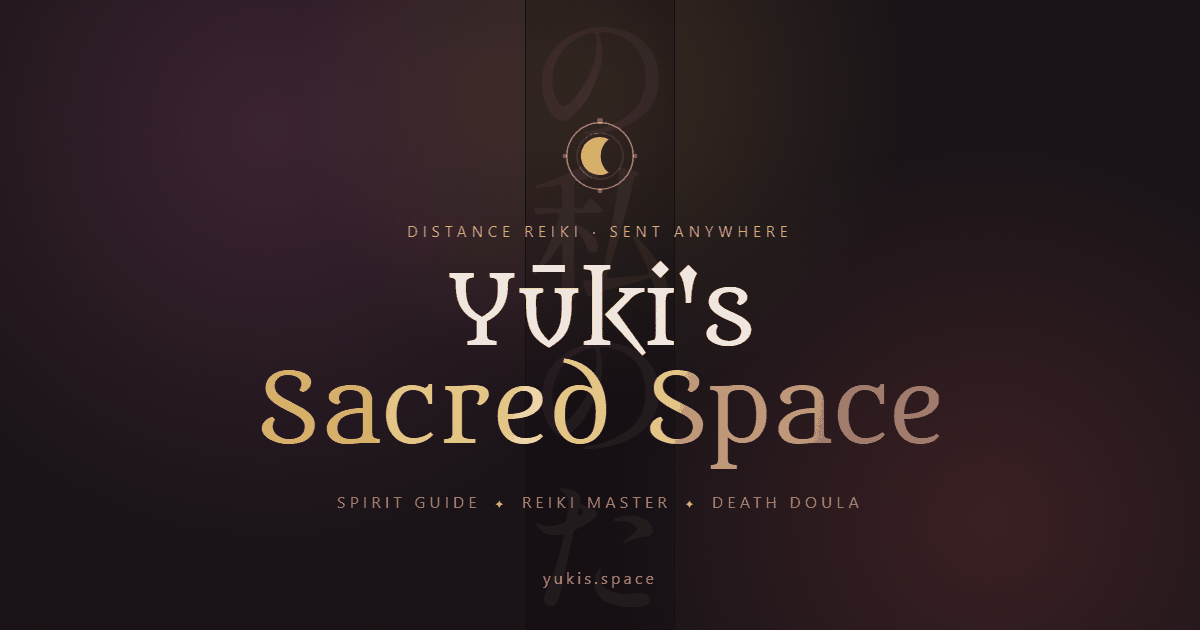
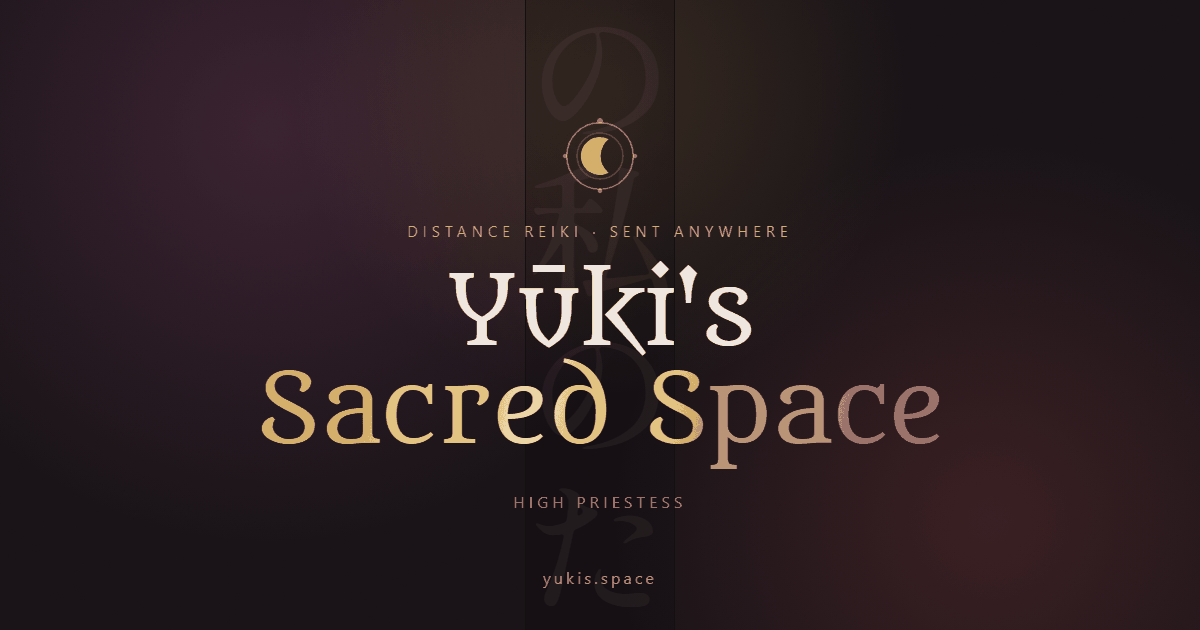
Retitle to high priestess and mark the CBT course complete
She is not pursuing death doula work, so the three-part role line becomes a
single title everywhere it appeared: hero, about page, page titles and meta
descriptions, structured data jobTitle, email header, social card, PWA
manifest and og:image alt.

The homepage "pillars" block is removed rather than trimmed. It was three
cards, one per role title, and the copy in them was mine rather than hers.
With a single title the format does not hold, and two cards in a
three-column grid reads as broken. The scroll cue now points at the
offerings section, and the .pillars styles stay in styles.css in case a
similar block is wanted later.

Also: advanced CBT practitioner moves from "ongoing" to August '26, and the
email footer's site link now derives its label from APP_BASE_URL instead of
hard-coding the old duckdns host, which had already gone stale once.

diff --git a/index.html b/index.html
@@ -3,13 +3,13 @@
 <head>
 <meta charset="utf-8">
 <meta name="viewport" content="width=device-width, initial-scale=1">
-<title>Yūki's Sacred Space — distance reiki, spirit guidance, death doula</title>
-<meta name="description" content="Distance reiki, intuitive readings, and confidential conversation with Wisteria Yūki. Spirit guide, reiki master, death doula. Sessions from 15 minutes to a full hour, sent anywhere.">
+<title>Yūki's Sacred Space — distance reiki, sent anywhere</title>
+<meta name="description" content="Distance reiki, intuitive readings, and confidential conversation with Wisteria Yūki. High priestess. Sessions from 15 minutes to a full hour, sent anywhere.">
 <meta name="theme-color" content="#191317">
 
 <meta property="og:type" content="website">
 <meta property="og:title" content="Yūki's Sacred Space">
-<meta property="og:description" content="Distance reiki, intuitive readings, and confidential conversation. Spirit guide, reiki master, death doula.">
+<meta property="og:description" content="Distance reiki, intuitive readings, and confidential conversation. High priestess.">
 <meta property="og:site_name" content="Yūki's Sacred Space">
 <meta name="twitter:card" content="summary_large_image">
 
@@ -45,13 +45,13 @@
   "url": "https://yukis.space",
   "logo": "https://yukis.space/brand/icon-512.png",
   "image": "https://yukis.space/brand/og-image.png",
-  "description": "Distance reiki, spirit guidance and death doula work by Wisteria Yūki. Sessions from fifteen minutes to a full hour, sent anywhere.",
+  "description": "Distance reiki and spirit guidance by Wisteria Yūki. Sessions from fifteen minutes to a full hour, sent anywhere.",
   "areaServed": { "@type": "Place", "name": "Worldwide" },
   "knowsLanguage": "en",
   "founder": {
     "@type": "Person",
     "name": "Wisteria Yūki",
-    "jobTitle": "Reiki Master, Spirit Guide, Death Doula",
+    "jobTitle": "High Priestess",
     "url": "https://yukis.space/about",
     "sameAs": [
       "https://www.facebook.com/wistyuki",
@@ -78,7 +78,7 @@
 <meta property="og:image" content="https://yukis.space/brand/og-image.png">
 <meta property="og:image:width" content="1200">
 <meta property="og:image:height" content="630">
-<meta property="og:image:alt" content="Yuki's Sacred Space - distance reiki, spirit guidance and death doula work, sent anywhere">
+<meta property="og:image:alt" content="Yuki's Sacred Space - distance reiki and spirit guidance, sent anywhere">
 <meta name="twitter:image" content="https://yukis.space/brand/og-image.png">
 <!-- SEO:END -->
 </head>
@@ -179,7 +179,7 @@
     </h1>
 
     <p class="hero__roles reveal" style="--i:2">
-      <span>spirit guide</span><i aria-hidden="true">✦</i><span>reiki master</span><i aria-hidden="true">✦</i><span>death doula</span>
+      <span>high priestess</span>
     </p>
 
     <p class="hero__lede reveal" style="--i:3">
@@ -193,31 +193,14 @@
     </div>
   </div>
 
-  <a class="scrollcue" href="#pillars" aria-label="Scroll down">
+  <a class="scrollcue" href="#offerings" aria-label="Scroll down">
     <span class="scrollcue__line" aria-hidden="true"></span>
   </a>
 </section>
 
-<!-- ───────────────────────── pillars ───────────────────────── -->
-<section class="pillars" id="pillars">
-  <div class="wrap pillars__grid">
-    <article class="pillar reveal">
-      <span class="pillar__mark" aria-hidden="true">☾</span>
-      <h2>spirit guide</h2>
-      <p>i listen for what's speaking around you, and i tell you plainly what i hear.</p>
-    </article>
-    <article class="pillar reveal" style="--i:1">
-      <span class="pillar__mark" aria-hidden="true">✧</span>
-      <h2>reiki master</h2>
-      <p>hands-off energy work, sent anywhere. no room, no table, no travel.</p>
-    </article>
-    <article class="pillar reveal" style="--i:2">
-      <span class="pillar__mark" aria-hidden="true">☗</span>
-      <h2>death doula</h2>
-      <p>presence for endings — the literal ones, and all the other kinds.</p>
-    </article>
-  </div>
-</section>
+<!-- A three-card block sat here, one card per professional title. It no longer
+     fits a single title, so it was removed. The .pillars styles remain in
+     styles.css if a similar block is ever wanted. -->
 
 <!-- ───────────────────────── offerings ───────────────────────── -->
 <section class="section" id="offerings">

diff --git a/about.html b/about.html
@@ -4,7 +4,7 @@
 <meta charset="utf-8">
 <meta name="viewport" content="width=device-width, initial-scale=1">
 <title>About — Yūki's Sacred Space</title>
-<meta name="description" content="Wisteria Yūki — spirit guide, reiki master, death doula. Training, certifications and how she works.">
+<meta name="description" content="Wisteria Yūki — high priestess. Training, certifications and how she works.">
 <meta name="theme-color" content="#191317">
 <link rel="preconnect" href="https://fonts.googleapis.com">
 <link rel="preconnect" href="https://fonts.gstatic.com" crossorigin>
@@ -27,7 +27,7 @@
 <meta property="og:image" content="https://yukis.space/brand/og-image.png">
 <meta property="og:image:width" content="1200">
 <meta property="og:image:height" content="630">
-<meta property="og:image:alt" content="Yuki's Sacred Space - distance reiki, spirit guidance and death doula work, sent anywhere">
+<meta property="og:image:alt" content="Yuki's Sacred Space - distance reiki and spirit guidance, sent anywhere">
 <meta name="twitter:image" content="https://yukis.space/brand/og-image.png">
 <!-- SEO:END -->
 </head>
@@ -91,7 +91,7 @@
   <div class="wrap">
     <a class="backlink" href="index.html"><span aria-hidden="true">&larr;</span> back to the sacred space</a>
     <h1 class="phead__title">about me</h1>
-    <p class="phead__sub">spirit guide &middot; reiki master &middot; death doula</p>
+    <p class="phead__sub">high priestess</p>
   </div>
 </section>
 
@@ -208,7 +208,7 @@
         <li class="cert">
           <span class="cert__name">advanced cbt practitioner</span>
           <span class="cert__by">achology</span>
-          <span class="cert__when">ongoing</span>
+          <span class="cert__when">august &rsquo;26</span>
         </li>
       </ul>
 

diff --git a/backend/mailer.js b/backend/mailer.js
@@ -105,7 +105,7 @@ function renderHtml({ subject, preheader, body, ctaLabel, ctaUrl, unsubUrl }) {
 
       <tr><td align="center" style="padding:36px 32px 26px;border-bottom:1px solid rgba(233,222,216,0.11);">
         <div style="font-family:Georgia,'Times New Roman',serif;font-size:23px;letter-spacing:1px;color:#EFE6E0;">Y&#363;ki&rsquo;s Sacred Space</div>
-        <div style="margin-top:9px;font-family:Helvetica,Arial,sans-serif;font-size:10px;letter-spacing:3px;text-transform:uppercase;color:#D4A94A;">spirit guide &middot; reiki master &middot; death doula</div>
+        <div style="margin-top:9px;font-family:Helvetica,Arial,sans-serif;font-size:10px;letter-spacing:3px;text-transform:uppercase;color:#D4A94A;">high priestess</div>
       </td></tr>
 
       <tr><td style="padding:34px 32px 10px;">
@@ -117,7 +117,7 @@ function renderHtml({ subject, preheader, body, ctaLabel, ctaUrl, unsubUrl }) {
       <tr><td style="padding:26px 32px 32px;border-top:1px solid rgba(233,222,216,0.11);">
         <p style="margin:0 0 12px;font-family:Helvetica,Arial,sans-serif;font-size:12px;line-height:1.6;color:#9A8781;">
           You're getting this because you asked for it at
-          <a href="${BASE}" style="color:#D4A94A;">yukispace.duckdns.org</a>.
+          <a href="${BASE}" style="color:#D4A94A;">${BASE.replace(/^https?:\/\//, '')}</a>.
         </p>
         <p style="margin:0 0 12px;font-family:Helvetica,Arial,sans-serif;font-size:12px;line-height:1.6;color:#9A8781;">
           <a href="${esc(unsubUrl)}" style="color:#9A8781;text-decoration:underline;">Unsubscribe</a>

diff --git a/brand.html b/brand.html
@@ -27,7 +27,7 @@
 <meta property="og:image" content="https://yukis.space/brand/og-image.png">
 <meta property="og:image:width" content="1200">
 <meta property="og:image:height" content="630">
-<meta property="og:image:alt" content="Yuki's Sacred Space - distance reiki, spirit guidance and death doula work, sent anywhere">
+<meta property="og:image:alt" content="Yuki's Sacred Space - distance reiki and spirit guidance, sent anywhere">
 <meta name="twitter:image" content="https://yukis.space/brand/og-image.png">
 <!-- SEO:END -->
 </head>

diff --git a/guides/breakup.html b/guides/breakup.html
@@ -22,7 +22,7 @@
 <meta property="og:image" content="https://yukis.space/brand/og-image.png">
 <meta property="og:image:width" content="1200">
 <meta property="og:image:height" content="630">
-<meta property="og:image:alt" content="Yuki's Sacred Space - distance reiki, spirit guidance and death doula work, sent anywhere">
+<meta property="og:image:alt" content="Yuki's Sacred Space - distance reiki and spirit guidance, sent anywhere">
 <meta name="twitter:image" content="https://yukis.space/brand/og-image.png">
 <!-- SEO:END -->
 </head>

diff --git a/guides/breathing.html b/guides/breathing.html
@@ -22,7 +22,7 @@
 <meta property="og:image" content="https://yukis.space/brand/og-image.png">
 <meta property="og:image:width" content="1200">
 <meta property="og:image:height" content="630">
-<meta property="og:image:alt" content="Yuki's Sacred Space - distance reiki, spirit guidance and death doula work, sent anywhere">
+<meta property="og:image:alt" content="Yuki's Sacred Space - distance reiki and spirit guidance, sent anywhere">
 <meta name="twitter:image" content="https://yukis.space/brand/og-image.png">
 <!-- SEO:END -->
 </head>

diff --git a/guides/catastrophic-thinking.html b/guides/catastrophic-thinking.html
@@ -22,7 +22,7 @@
 <meta property="og:image" content="https://yukis.space/brand/og-image.png">
 <meta property="og:image:width" content="1200">
 <meta property="og:image:height" content="630">
-<meta property="og:image:alt" content="Yuki's Sacred Space - distance reiki, spirit guidance and death doula work, sent anywhere">
+<meta property="og:image:alt" content="Yuki's Sacred Space - distance reiki and spirit guidance, sent anywhere">
 <meta name="twitter:image" content="https://yukis.space/brand/og-image.png">
 <!-- SEO:END -->
 </head>

diff --git a/guides/meditation.html b/guides/meditation.html
@@ -22,7 +22,7 @@
 <meta property="og:image" content="https://yukis.space/brand/og-image.png">
 <meta property="og:image:width" content="1200">
 <meta property="og:image:height" content="630">
-<meta property="og:image:alt" content="Yuki's Sacred Space - distance reiki, spirit guidance and death doula work, sent anywhere">
+<meta property="og:image:alt" content="Yuki's Sacred Space - distance reiki and spirit guidance, sent anywhere">
 <meta name="twitter:image" content="https://yukis.space/brand/og-image.png">
 <!-- SEO:END -->
 </head>

diff --git a/guides/new-job.html b/guides/new-job.html
@@ -22,7 +22,7 @@
 <meta property="og:image" content="https://yukis.space/brand/og-image.png">
 <meta property="og:image:width" content="1200">
 <meta property="og:image:height" content="630">
-<meta property="og:image:alt" content="Yuki's Sacred Space - distance reiki, spirit guidance and death doula work, sent anywhere">
+<meta property="og:image:alt" content="Yuki's Sacred Space - distance reiki and spirit guidance, sent anywhere">
 <meta name="twitter:image" content="https://yukis.space/brand/og-image.png">
 <!-- SEO:END -->
 </head>

diff --git a/resources.html b/resources.html
@@ -27,7 +27,7 @@
 <meta property="og:image" content="https://yukis.space/brand/og-image.png">
 <meta property="og:image:width" content="1200">
 <meta property="og:image:height" content="630">
-<meta property="og:image:alt" content="Yuki's Sacred Space - distance reiki, spirit guidance and death doula work, sent anywhere">
+<meta property="og:image:alt" content="Yuki's Sacred Space - distance reiki and spirit guidance, sent anywhere">
 <meta name="twitter:image" content="https://yukis.space/brand/og-image.png">
 <!-- SEO:END -->
 </head>

diff --git a/writing.html b/writing.html
@@ -27,7 +27,7 @@
 <meta property="og:image" content="https://yukis.space/brand/og-image.png">
 <meta property="og:image:width" content="1200">
 <meta property="og:image:height" content="630">
-<meta property="og:image:alt" content="Yuki's Sacred Space - distance reiki, spirit guidance and death doula work, sent anywhere">
+<meta property="og:image:alt" content="Yuki's Sacred Space - distance reiki and spirit guidance, sent anywhere">
 <meta name="twitter:image" content="https://yukis.space/brand/og-image.png">
 <!-- SEO:END -->
 </head>

diff --git a/brand/og-image.html b/brand/og-image.html
@@ -131,7 +131,7 @@
   <div class="eyebrow">distance reiki &middot; sent anywhere</div>
   <h1>Yūki's<br><span class="accent">Sacred Space</span></h1>
   <div class="roles">
-    spirit guide<i>&#10022;</i>reiki master<i>&#10022;</i>death doula
+    high priestess
   </div>
 </div>
 
